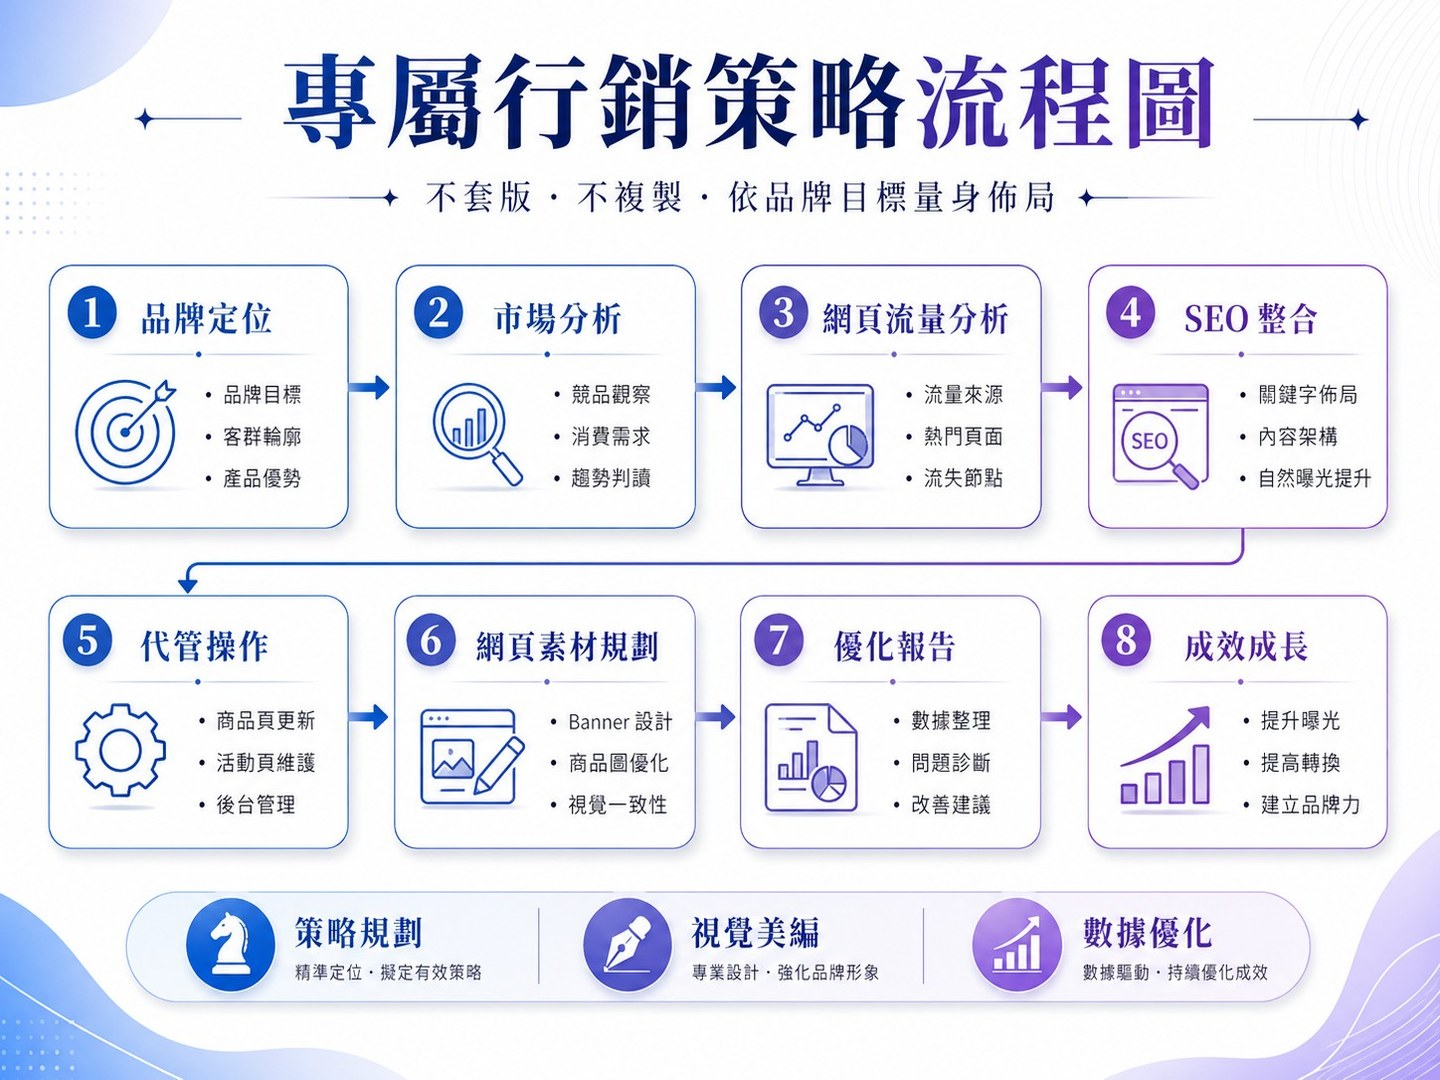
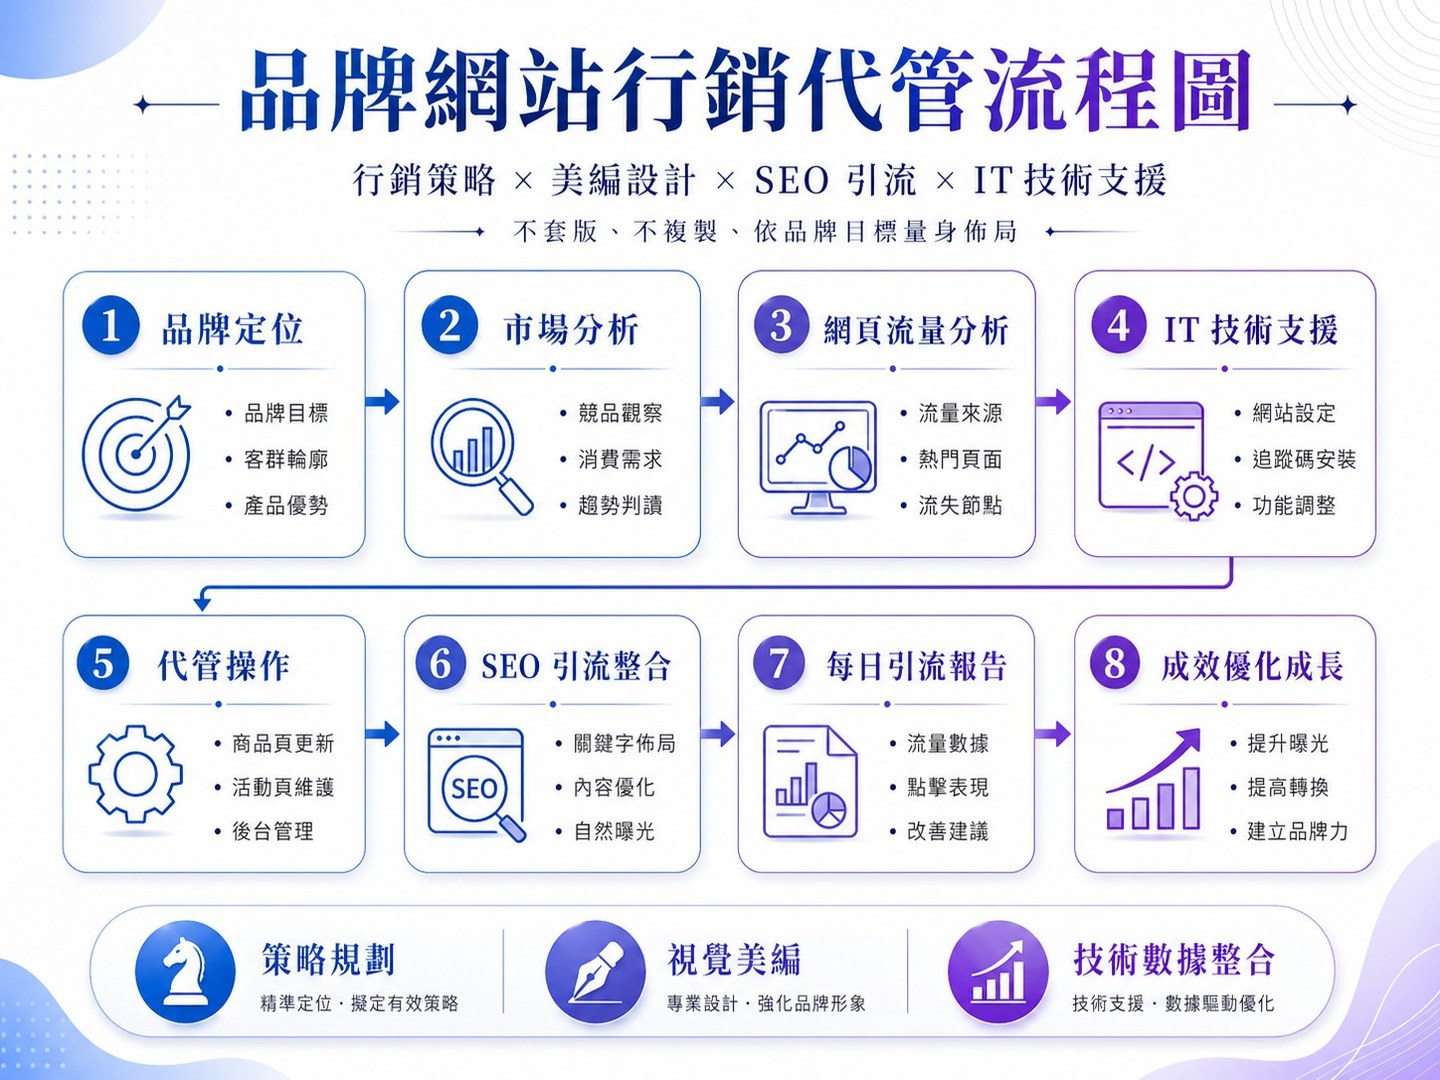
content: rebrand strategy block to 「品牌網站行銷代管服務」
new flowchart image (品牌網站行銷代管流程圖) emphasises four pillars:
行銷策略 × 美編設計 × SEO 引流 × IT 技術支援

step list updated (step 4 changed to IT 技術支援, step 6/7/8 reworded):
01 品牌定位 / 02 市場分析 / 03 網頁流量分析 / 04 IT 技術支援
05 代管操作 / 06 SEO 引流整合 / 07 每日引流報告 / 08 成效優化成長

copy refresh:
- kicker: 專屬品牌網站行銷代管服務
- title: 不只做美編，更做網站營運。
- three-paragraph lede covering positioning, daily-report tracking,
  and IT engineer technical support
- third pillar renamed 技術數據整合
- summary card rewritten

styling:
- highlight bold spans in lede with subtle gold underline highlight
- proper spacing between multi-paragraph lede

diff --git a/app/page.tsx b/app/page.tsx
@@ -218,28 +218,36 @@ export default function Home() {
 
           <div className="strategy">
             <div className="strategy-head">
-              <div className="strategy-kicker">— 專屬行銷策略服務</div>
+              <div className="strategy-kicker">— 專屬品牌網站行銷代管服務</div>
               <h3 className="strategy-title">
-                不套版、不複製，<br />
-                <span>依品牌目標量身佈局</span>。
+                不只做美編，<br />
+                <span>更做網站營運</span>。
               </h3>
               <p className="strategy-lede">
-                每個品牌所處的階段、產品特色、客群需求與銷售目標都不同，因此我們不使用固定模板、也不複製制式做法，
-                而是根據品牌現況與未來方向，規劃真正適合你的行銷策略。從網站流量、內容優化、SEO 佈局到日常代管操作，
-                協助品牌建立更清楚的曝光路徑，提升搜尋能見度與轉換機會。
+                我們不只是做美編，也不只是寫文案，而是結合
+                <b> 行銷策略、美編排版、SEO 引流、網站代管與 IT 工程師技術支援</b>，
+                協助品牌打造更完整的網路營運流程。
+              </p>
+              <p className="strategy-lede">
+                從品牌定位、市場分析、網站流量追蹤，到商品頁優化、活動頁維護、網頁素材製作與每日數據報告，
+                都能協助品牌更清楚掌握網站成效，知道流量從哪裡來、客戶看了什麼、哪裡需要改善。
+              </p>
+              <p className="strategy-lede">
+                如果網站有後台設定、追蹤碼安裝、表單串接、頁面調整或技術問題，
+                也能由 IT 工程師協助處理，讓品牌不用自己東找西問，可以用更有效率的方式完成網站營運。
               </p>
             </div>
 
             <figure className="strategy-flow">
               <img
                 src="/strategy-flow.jpg"
-                alt="專屬行銷策略流程圖：品牌定位、市場分析、網頁流量分析、SEO 整合、代管操作、網頁素材規劃、優化報告、成效成長八步驟"
+                alt="品牌網站行銷代管流程圖：品牌定位、市場分析、網頁流量分析、IT 技術支援、代管操作、SEO 引流整合、每日引流報告、成效優化成長八步驟，整合行銷策略、美編設計、SEO 引流與 IT 技術支援"
                 width={1440}
                 height={1080}
                 loading="lazy"
                 decoding="async"
               />
-              <figcaption>專屬行銷策略流程圖｜八步驟、三大支柱（策略規劃・視覺美編・數據優化）</figcaption>
+              <figcaption>品牌網站行銷代管流程圖｜行銷策略 × 美編設計 × SEO 引流 × IT 技術支援</figcaption>
             </figure>
 
             <ol className="strategy-grid">
@@ -257,13 +265,13 @@ export default function Home() {
             <div className="strategy-pillars" aria-hidden="false">
               <div className="pillar"><b>策略規劃</b><span>精準定位 · 擬定有效策略</span></div>
               <div className="pillar"><b>視覺美編</b><span>專業設計 · 強化品牌形象</span></div>
-              <div className="pillar"><b>數據優化</b><span>數據驅動 · 持續優化成效</span></div>
+              <div className="pillar"><b>技術數據整合</b><span>技術支援 · 數據驅動優化</span></div>
             </div>
 
             <p className="strategy-summary">
-              <span>專屬行銷策略，不套版、不複製。</span>
-              依照品牌目標、產品特色與市場需求，量身規劃網站流量分析、代管操作、SEO 整合、優化報告與網頁素材，
-              協助品牌提升曝光、強化內容，打造更有轉換力的網站。
+              <span>專屬品牌網站行銷代管，不套版、不複製。</span>
+              整合行銷策略、美編排版、SEO 引流、網站代管與 IT 技術支援，
+              協助品牌掌握流量來源、優化網站內容、解決技術問題，讓營運更有效率、轉換更穩定。
             </p>
           </div>
         </div>
@@ -454,11 +462,11 @@ const STRATEGY = [
   { num: '01', title: '品牌定位', tags: ['品牌目標', '客群輪廓', '產品優勢'] },
   { num: '02', title: '市場分析', tags: ['競品觀察', '消費需求', '趨勢判讀'] },
   { num: '03', title: '網頁流量分析', tags: ['流量來源', '熱門頁面', '流失節點'] },
-  { num: '04', title: 'SEO 整合', tags: ['關鍵字佈局', '內容架構', '自然曝光提升'] },
+  { num: '04', title: 'IT 技術支援', tags: ['網站設定', '追蹤碼安裝', '功能調整'] },
   { num: '05', title: '代管操作', tags: ['商品頁更新', '活動頁維護', '後台管理'] },
-  { num: '06', title: '網頁素材規劃', tags: ['Banner 設計', '商品圖優化', '視覺一致性'] },
-  { num: '07', title: '優化報告', tags: ['數據整理', '問題診斷', '改善建議'] },
-  { num: '08', title: '成效成長', tags: ['提升曝光', '提高轉換', '建立品牌力'] },
+  { num: '06', title: 'SEO 引流整合', tags: ['關鍵字佈局', '內容優化', '自然曝光'] },
+  { num: '07', title: '每日引流報告', tags: ['流量數據', '點擊表現', '改善建議'] },
+  { num: '08', title: '成效優化成長', tags: ['提升曝光', '提高轉換', '建立品牌力'] },
 ];
 
 const STEPS = [

diff --git a/app/globals.css b/app/globals.css
@@ -838,6 +838,16 @@ section {
   font-size: 15px;
   line-height: 2;
   color: var(--ink-soft);
+  text-align: left;
+}
+.strategy-lede + .strategy-lede {
+  margin-top: 18px;
+}
+.strategy-lede b {
+  color: var(--ink);
+  font-weight: 700;
+  background: linear-gradient(180deg, transparent 60%, rgba(184, 146, 74, 0.18) 60%);
+  padding: 0 2px;
 }
 
 /* flow chart visual */
